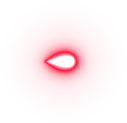
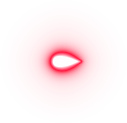
shoot enemy feature added

Changed region(s): [[0.3307, 0.4146, 0.685, 0.5854]]

diff --git a/src/game.js b/src/game.js
@@ -1,16 +1,13 @@
 class Game {
   constructor(options, ctx) {
     this.ctx = options.ctx;
-    this.enemy = [];
+    this.ship = options.ship;
     this.stones = [];
+    this.enemy = [];
     this.powerups = [];
     this.shoots = [];
     this.boosts = [];
     this.shootsEnemy = [];
-    this.ship = options.ship;
-    this.shoot = options.shoot;
-    this.posX = options.posX;
-    this.posY = options.posY;
     this.score = 0;
     this.scoreText = new Score(ctx, 10, 10);
     this.soundGame = new Audio("./audio/Nemesis.mp3");
@@ -26,12 +23,12 @@ class Game {
   _drawStones() {
     this.stones.forEach((stone) => {
       this.ctx.drawImage(stonesSprite.sprite, stonesSprite.posX, stonesSprite.posY, stonesSprite.w, stonesSprite.h, stone.posX, stone.posY, 40, 40);
-    })
+    });
   }
   _drawEnemy() {
     this.enemy.forEach((enemy) => {
       this.ctx.drawImage(enemySprite.sprite, enemySprite.posX, enemySprite.posY, enemySprite.w, enemySprite.h, enemy.posX, enemy.posY, 40, 40);
-    })
+    });
   }
   _drawShoot() {
     this.shoots.forEach((shoot) => {
@@ -44,18 +41,17 @@ class Game {
     this.boosts.forEach((boost) => {
       this.ctx.drawImage(boostSprite.sprite, boostSprite.posX, boostSprite.posY, boostSprite.w, boostSprite.h, boost.posX, boost.posY, 200, 200);
       boost.move();
-      //boost.goAttack()
-    });
-  }
-  _drawshootEnemy() {
-    this.shootsEnemy.forEach((shootEnemy) => {
-      this.ctx.drawImage(shootEnemySprite.sprite, shootEnemySprite.sprite.posX, shootEnemySprite.sprite.posY, shootEnemySprite.sprite.w, shootEnemySprite.sprite.h, shootEnemy.posX, shootEnemy.posY, 55, 55);
     });
   }
   _drawPowerups() {
     this.powerups.forEach((pu) => {
       this.ctx.drawImage(powerupSprite.sprite, powerupSprite.sprite.posX, powerupSprite.sprite.posY, powerupSprite.sprite.w, powerupSprite.sprite.h, pu.posX, pu.posY, 40, 40);
-    })
+    });
+  }
+  _drawshootEnemy() {
+    this.shootsEnemy.forEach((shootEnemy) => {
+      this.ctx.drawImage(shootEnemySprite.sprite, shootEnemySprite.sprite.posX, shootEnemySprite.sprite.posY, shootEnemySprite.sprite.w, shootEnemySprite.sprite.h, shootEnemy.posX, shootEnemy.posY, 50, 50);
+    });
   }
   _drawScore() {
     this.ctx.beginPath();
@@ -73,21 +69,11 @@ class Game {
     }
     this.stones.push(new Stones(getRandomInt(1275, 1280), getRandomInt(20, 700)));
   }
-  _generateStonesInterval() {
-    setInterval(() => {
-      this._generateStones();
-    }, 4000);
-  }
   _generateEnemy() {
     function getRandomInt(min, max) {
       return Math.floor(Math.random() * (max - min)) + min;
     }
-    this.enemy.push(new Enemy(getRandomInt(1279, 1280), getRandomInt(20, 600)));
-  }
-  _generateEnemyInterval() {
-    setInterval(() => {
-      this._generateEnemy();
-    }, 5000);
+    this.enemy.push(new Enemy(getRandomInt(1279, 1280), getRandomInt(20, 700)));
   }
   _generatePowerups() {
     function getRandomInt(min, max) {
@@ -95,22 +81,34 @@ class Game {
     }
     this.powerups.push(new Powerup(getRandomInt(1275, 1280), getRandomInt(20, 700)));
   }
+  _generateShootEnemy() {
+    function getRandomInt(min, max) {
+      return Math.floor(Math.random() * (max - min)) + min;
+    }
+    this.shootsEnemy.push(new ShootEnemy(getRandomInt(1279, 1280), getRandomInt(20, 700)));
+    //this.shootsEnemy.push(new ShootEnemy(this.enemy.posX -20, this.enemy.posY -20));
+  }
+
+  //Generate intervals
+  _generateStonesInterval() {
+    setInterval(() => {
+      this._generateStones();
+    }, 4000);
+  }
+  _generateEnemyInterval() {
+    setInterval(() => {
+      this._generateEnemy();
+    }, 5000);
+  }
   _generatePowerupsInterval() {
     setInterval(() => {
       this._generatePowerups();
     }, 3000);
   }
-  _generateShootEnemy() {
-    function getRandomInt(min, max) {
-      return Math.floor(Math.random() * (max - min)) + min;
-    }
-    this.shootsEnemy.push(new shootEnemy(getRandomInt(0, 1280), getRandomInt(20, 600)));
-    // this.shootsEnemy.push(new shootEnemy(this.enemy.posX -20, this.enemy.posY -20));
-  }
   _generateShootEnemyInterval() {
     setInterval(() => {
       this._generateShootEnemy();
-    }, 2000);
+    }, 500);
   }
 
   //Collisions
@@ -165,11 +163,11 @@ class Game {
         case 'KeyS':
           this.ship.posY += this.ship.speed;
           break;
+        case 'KeyA':
+            this.ship.posX -= this.ship.speed;
+            break;
         case 'KeyD':
           this.ship.posX += this.ship.speed;
-          break;
-        case 'KeyA':
-          this.ship.posX -= this.ship.speed;
           break;
         case 'Space':
           this.ship.posX += this.ship.speed + 20;
@@ -232,12 +230,12 @@ class Game {
   _update() {
     this._clean();
     this._drawShip();
-    this._drawPowerups();
     this._drawStones();
     this._drawEnemy();
+    this._drawPowerups();
+    this._drawshootEnemy();
     this._drawShoot();
     this._drawBoost();
-    this._drawshootEnemy();
     this._drawScore();
     this._checkCollisions();
     this._checkCollisionsStones();
@@ -270,12 +268,12 @@ class Game {
     // this.soundSplash.stop();
     this.soundGame.play();
     this._assignControlsToKeys(0);
-    this._generatePowerups();
-    this._generatePowerupsInterval();
     this._generateStones();
     this._generateStonesInterval();
     this._generateEnemy();
     this._generateEnemyInterval();
+    this._generatePowerups();
+    this._generatePowerupsInterval();
     this._generateShootEnemy();
     this._generateShootEnemyInterval();
     window.requestAnimationFrame(this._update.bind(this));

diff --git a/src/assets.js b/src/assets.js
@@ -44,16 +44,6 @@ const shipSprite = {
   // let randomStones = Math.floor(Math.random() * this.shootSprites.length);
   shootSprite.sprite.src = "./images/Shoot Player.png";
 
-  const shootEnemySprite = {
-    sprite: new Image(), // Creo un nuevo objeto imagen
-    w: 121, // Le digo cuántos píxeles ocupa de width el personaje en el archivo
-    h: 121, // Le digo cuántos píxeles tiene que coger de height
-    posX: 1, // En qué x del archivo tiene que empezar a coger personaje
-    posY: 1 // En qué y del archivo tiene que empezar a coger personaje
-  };
-  // let randomStones = Math.floor(Math.random() * this.shootSprites.length);
-  shootEnemySprite.sprite.src = "./images/Shoot Enemy.png";
-
   const boostSprite = {
     sprite: new Image(), // Creo un nuevo objeto imagen
     w: 80, // Le digo cuántos píxeles ocupa de width el personaje en el archivo
@@ -63,6 +53,16 @@ const shipSprite = {
   };
   // let randomStones = Math.floor(Math.random() * this.shootSprites.length);
   boostSprite.sprite.src = "./images/Boost Light.png";
+
+  const shootEnemySprite = {
+    sprite: new Image(), // Creo un nuevo objeto imagen
+    w: 150, // Le digo cuántos píxeles ocupa de width el personaje en el archivo
+    h: 150, // Le digo cuántos píxeles tiene que coger de height
+    posX: 1, // En qué x del archivo tiene que empezar a coger personaje
+    posY: 1 // En qué y del archivo tiene que empezar a coger personaje
+  };
+  // let randomStones = Math.floor(Math.random() * this.shootSprites.length);
+  shootEnemySprite.sprite.src = "./images/Shoot Enemy.png";
 
   const canvasSprite = {
     sprite: new Image(), // Creo un nuevo objeto imagen

diff --git a/src/shootenemy.js b/src/shootenemy.js
@@ -1,19 +1,17 @@
-class shootEnemy {
-    constructor (posX, posY) {
+class ShootEnemy {
+    constructor (posX = 0, posY = 0) {
         this.posX = posX;
         this.posY = posY;
-        this.speed = 20;
+        this.speed = 50;
+        this.lives = 1;
+        this.startMove();
     }
     move() {
         this.posX = this.posX - this.speed;
     }
-    goAttack(){
-        const id = setInterval(() => {      
-            if (this.posX >= 0) {   
-                this.posX = 610;
-                clearInterval(id)
-            }
-            this.move(); 
-        }, 500);  
+    startMove() {
+        setInterval(() => {
+            this.move();
+        }, 500);
     }
 }

diff --git a/src/boost.js b/src/boost.js
@@ -3,15 +3,6 @@ class Boost {
         this.posX = posX = 90;
         this.posY = posY;
     }
-    goAttack(){
-        const id = setInterval(() => {      
-            if (this.posX <= 0) {   
-                this.posX = 610;
-                clearInterval(id)
-            }
-            this.move(); 
-        }, 500);  
-    }
     move() {
         this.posX = this.posX - this.speed;
     }
